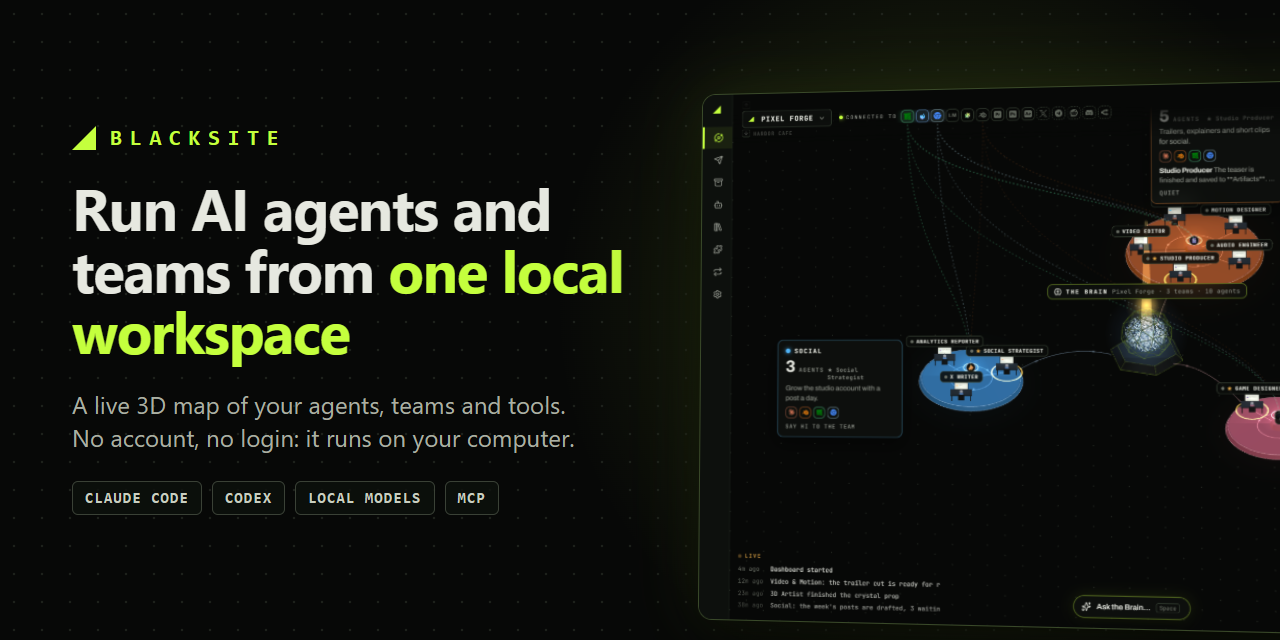
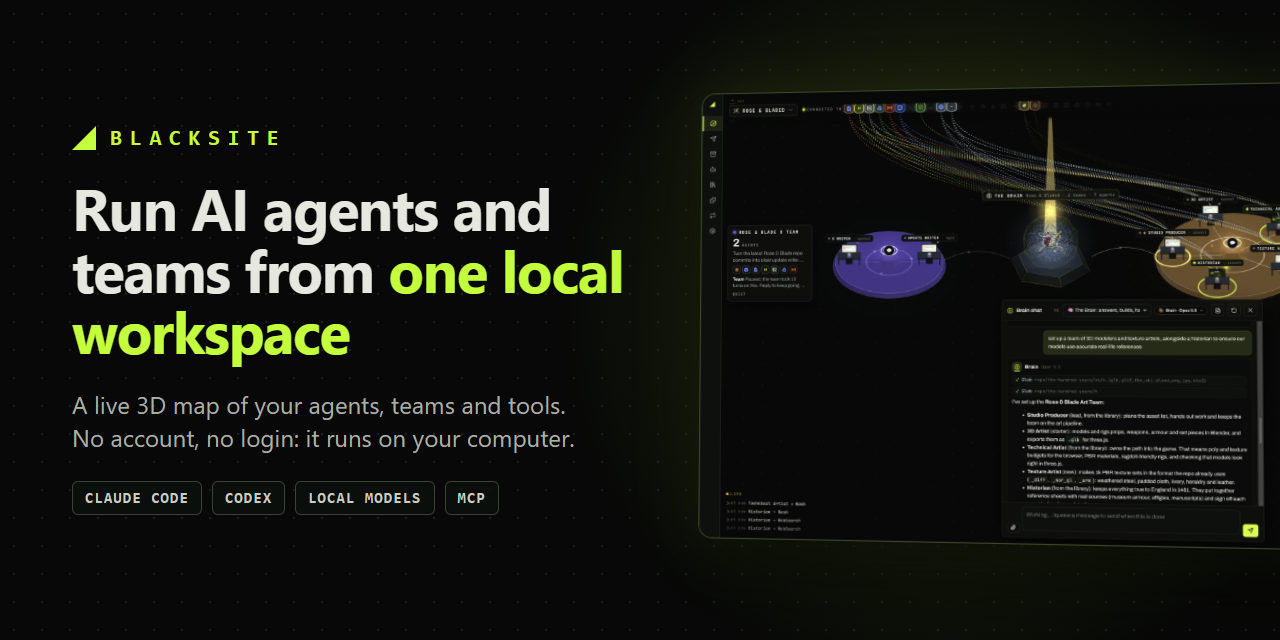
Docs: one hero image of the Brain setting up a team
- README: a single picture at the top (the Brain building an art team for a
  game project), and the gallery of demo screenshots is gone.
- docs/images: the hero picture and the social preview card made from it.

diff --git a/README.md b/README.md
@@ -3,7 +3,8 @@
 **Run AI agents and teams from one local workspace.** Give each agent a role, a model and the tools it needs. Talk to them directly, let them work together, and keep their work with the project it belongs to.
 
 <p align="center">
-  <img src="docs/images/station.png" alt="Blacksite's Station: a live 3D map of a project, with the Brain in the middle, three teams of AI agents at their desks, and the programs and tools connected to them" width="100%">
+  <img src="docs/images/hero.png" alt="Blacksite working on a game project: the Brain builds an art team of 3D artists and a historian from one sentence, while the agents on the live 3D map work at their desks and lines light up from the connected programs" width="100%">
+  <br><sub>The Brain setting up an art team for a game project, Rose &amp; Blade, while its agents get to work.</sub>
 </p>
 
 <p align="center">
@@ -18,7 +19,7 @@ Blacksite is a local-first **AI agent dashboard**: build teams of agents, give e
 
 The dashboard runs at **http://localhost:4800**, with no dashboard account or login. Its server and saved state stay on your computer. **Local does not mean offline:** hosted models and connected services receive the requests you send them. You can also use local models through LM Studio or Ollama.
 
-[What you can do](#what-you-can-do) · [Screenshots](#screenshots) · [Get started](#get-started) · [Connect a model](#connect-a-model) · [Your first project](#your-first-project) · [Where things are](#where-things-are) · [Approvals and safety](#approvals-and-safety) · [Save and restore](#save-and-restore) · [Development](#development) · [Detailed guide](docs/guide.md)
+[What you can do](#what-you-can-do) · [Get started](#get-started) · [Connect a model](#connect-a-model) · [Your first project](#your-first-project) · [Where things are](#where-things-are) · [Approvals and safety](#approvals-and-safety) · [Save and restore](#save-and-restore) · [Development](#development) · [Detailed guide](docs/guide.md)
 
 ## What you can do
 
@@ -27,42 +28,6 @@ The dashboard runs at **http://localhost:4800**, with no dashboard account or lo
 - **Work with your files and programs.** Give agents a project folder, attach reference files, and connect tools for programs such as Blender, ComfyUI and ffmpeg. Add more tools through MCP servers.
 - **Keep useful instructions.** Write skills in plain words, share them across agents and teams, and turn repeated work into routines you can run by hand or on a schedule.
 - **Review work before it goes out.** Handle permission requests in **Needs you**, review X and Reddit drafts in the **Outbox**, and find saved results in **Artifacts**.
-
-## Screenshots
-
-The screenshots show made-up demo data.
-
-### The Station: your agents, teams and tools on one live map
-
-Each team is a pod with its agents at their desks. The Brain sits in the middle and sets up teams, skills and routines when you ask. Lines run from the programs and services at the top to the agents that use them, and light up when an agent makes a call.
-
-![The Station, a live 3D map with three teams, the Brain, and the programs connected to the agents](docs/images/station.png)
-
-### Team chats where agents work together
-
-Everyone sees the whole conversation. Agents hand work to each other with @mentions, and the files they make show up in the chat: images, video, audio and 3D models you can turn with the mouse.
-
-![A team chat with an audio player and a 3D model preview, next to the team's panel with its members and their models](docs/images/team-chat.png)
-
-### Artifacts: what the teams finished
-
-Written results, files and folders that agents saved, each with a preview, who made it, which team it was for and when, and a search box for when there are many.
-
-![The Artifacts page with an image preview and a 3D crystal model preview](docs/images/artifacts.png)
-
-### MCP servers in one click
-
-Add a browser, GitHub, Notion, Linear, Unity, Unreal Engine, Godot or ElevenLabs from a list, or ask the Brain to do it.
-
-![The MCP servers page with ready-made presets, some marked as needing a key](docs/images/mcp-servers.png)
-
-### Projects as floors
-
-<img src="docs/images/project-menu.png" alt="The project menu: drag to reorder, rename, clone, back up, restore or delete a project" width="320" align="right">
-
-Each project has its own agents, teams, chats and Brain folder. Drag projects into the order you like, and press Up and Down on the Station to move between them. You can rename, clone or delete a project (a delete first makes a backup and checks it).
-
-<br clear="right">
 
 ## Get started
 
